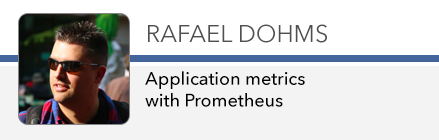
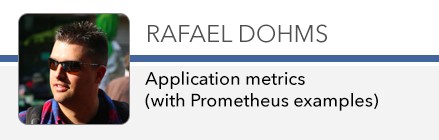
Update title and abstract of rafael's talk

Changed region(s): [[0.3257, 0.6571, 0.8588, 0.8]]

diff --git a/src/Contents/2018/Talks.md b/src/Contents/2018/Talks.md
@@ -77,13 +77,17 @@ Practical lessons learned while revamping a US airline website to resist huge Bl
 
 
 <a name="application-metrics-with-prometheus"></a>
-## Application metrics with prometheus
+## Application Metrics (with Prometheus examples)
 
 ---
 
 By [Rafael Dohms](@baseUrl@/speakers.html#rafael-dohms)
 
-We all know not to poke at alien life forms in another planet, right? But what about metrics, do you know how to pick, measure and draw conclusions from them? In this talk we will cover Service Level Indicators (SLI), Objectives (SLO), and how to use Prometheus, an open-source system monitoring and alert platform, to measure and make sense of them. Let's get back to some real science.
+We all know not to poke at alien life forms in another planet, right? But what about metrics, do you know how to pick, 
+measure and draw conclusions from them? In this talk we will cover various Site Reliability Engineering topics, 
+such as SLIs and SLOs while we explore real life examples of defining and implementing metrics in a system with examples 
+using Prometheus, an open-source system monitoring and alert platform, to demonstrate implementation. Let's get back to 
+some real science.
 
 <a name="mutation-testing-better-code-by-making-bugs"></a>
 ## Mutation testing: better code by making bugs

diff --git a/src/Contents/2018/Schedule.md b/src/Contents/2018/Schedule.md
@@ -217,7 +217,7 @@ Breaks during the workshop day:
         10:30am - 11:30am
     </div>
     <div class="col-xs-6 col-sm-6 col-md-8 col-lg-8">
-        <b><a href="@baseUrl@/talks.html#application-metrics-with-prometheus">Application metrics with Prometheus</a></b>
+        <b><a href="@baseUrl@/talks.html#application-metrics-with-prometheus">Application Metrics (with Prometheus examples)</a></b>
         <p>
             Speaker: <a href="@baseUrl@/speakers.html#rafael-dohms">Rafael Dohms</a>
         </p>

diff --git a/src/Contents/2018/Speakers.md b/src/Contents/2018/Speakers.md
@@ -488,7 +488,7 @@ to gather and spread their knowledge all around the community, who step up on a 
         <p>
             <br>
             <a href="@baseUrl@/talks.html#application-metrics-with-prometheus">
-                Talk: Application metrics with prometheus
+                Talk: Application Metrics (with Prometheus examples)
             </a>
         </p>
         <p>
